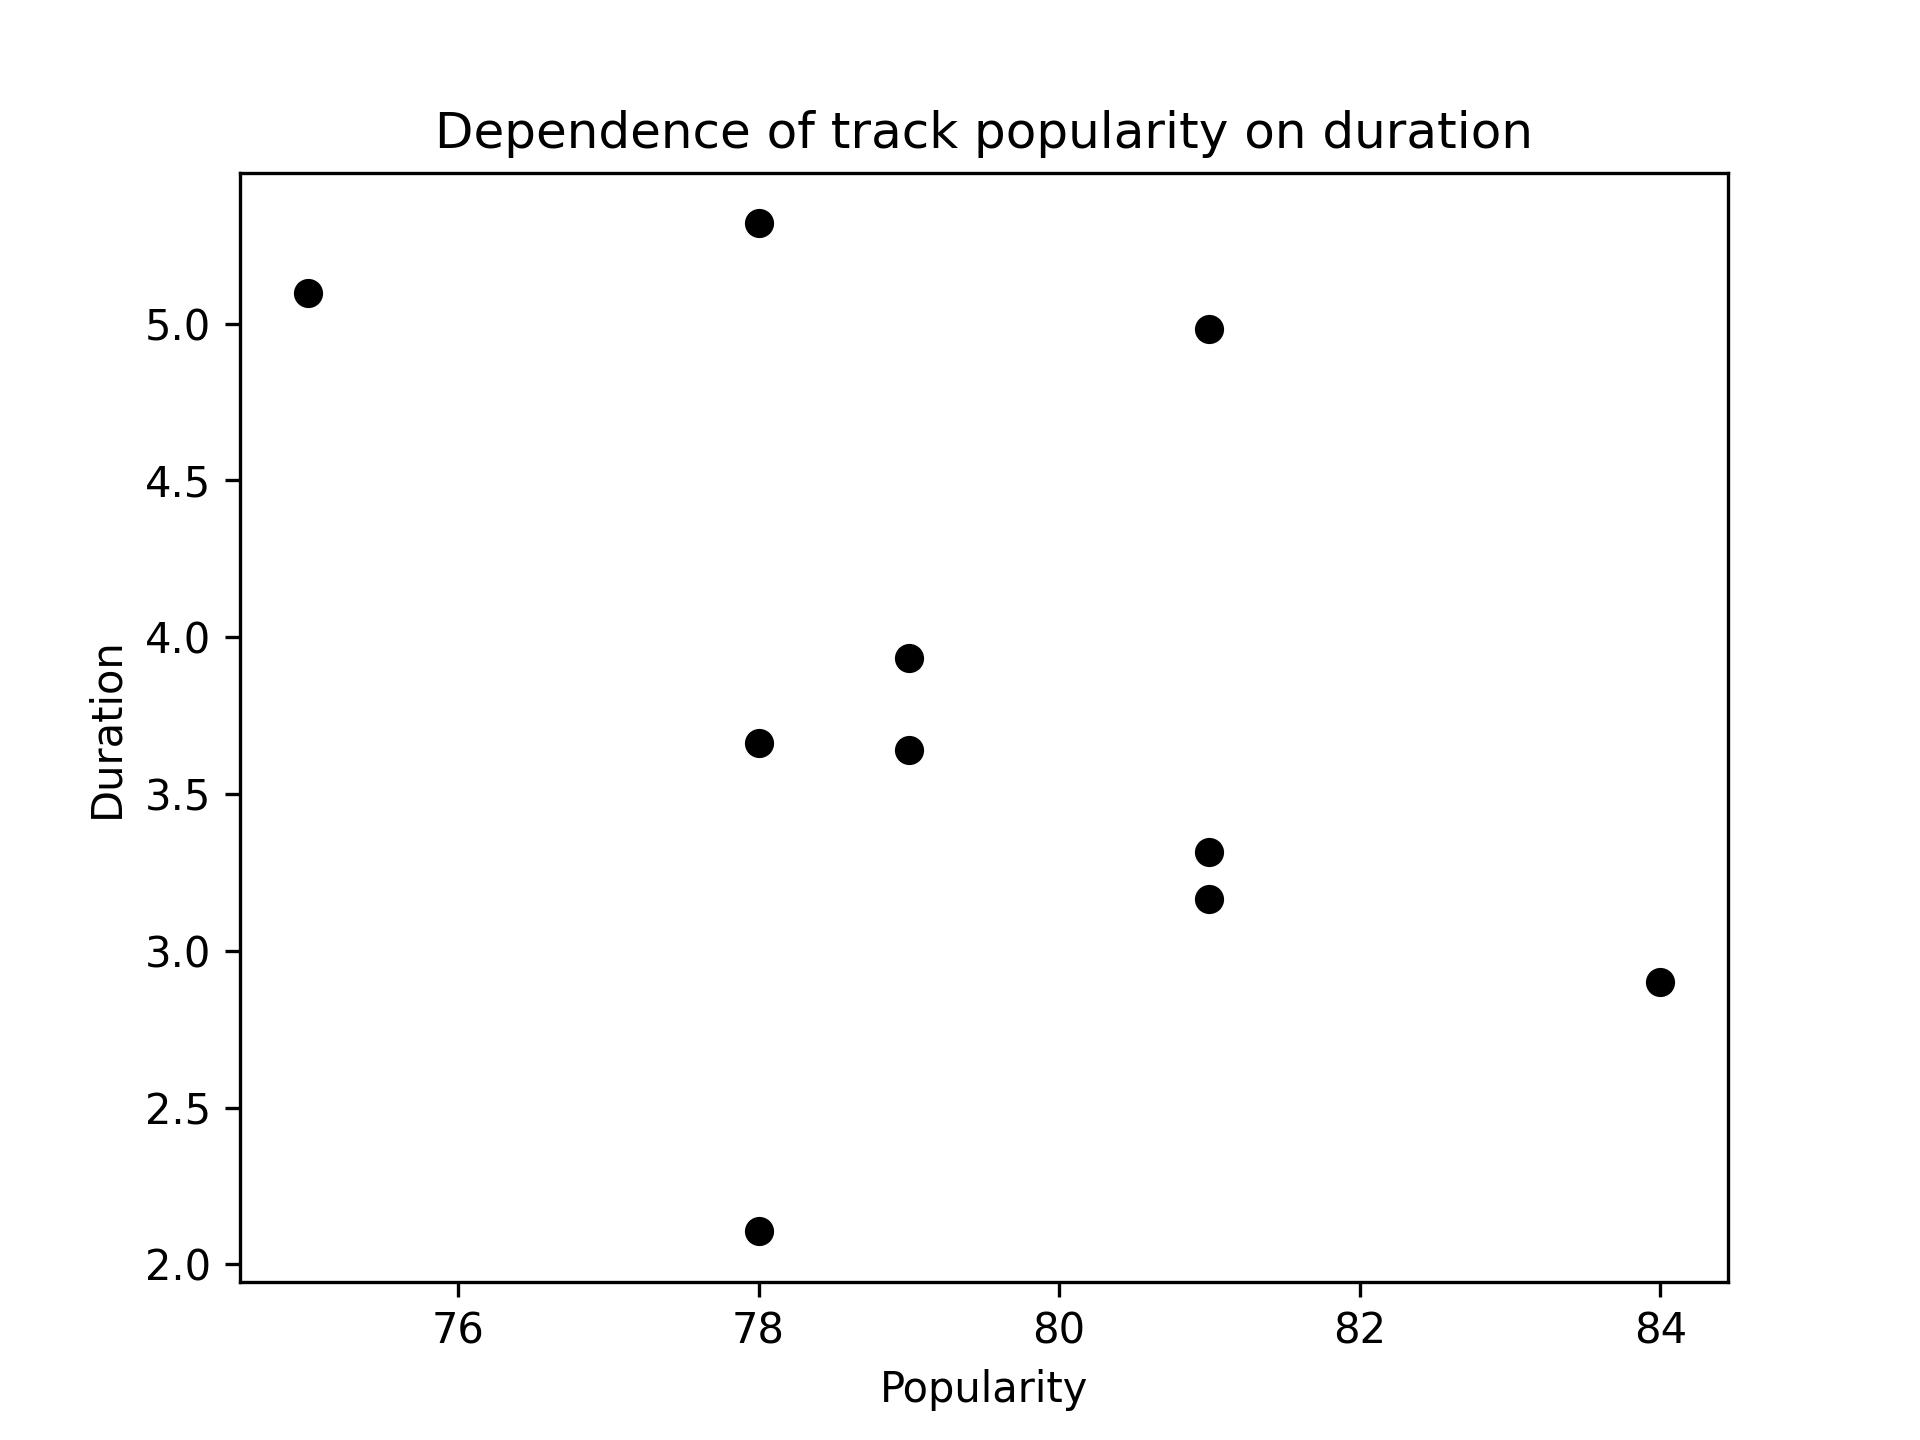
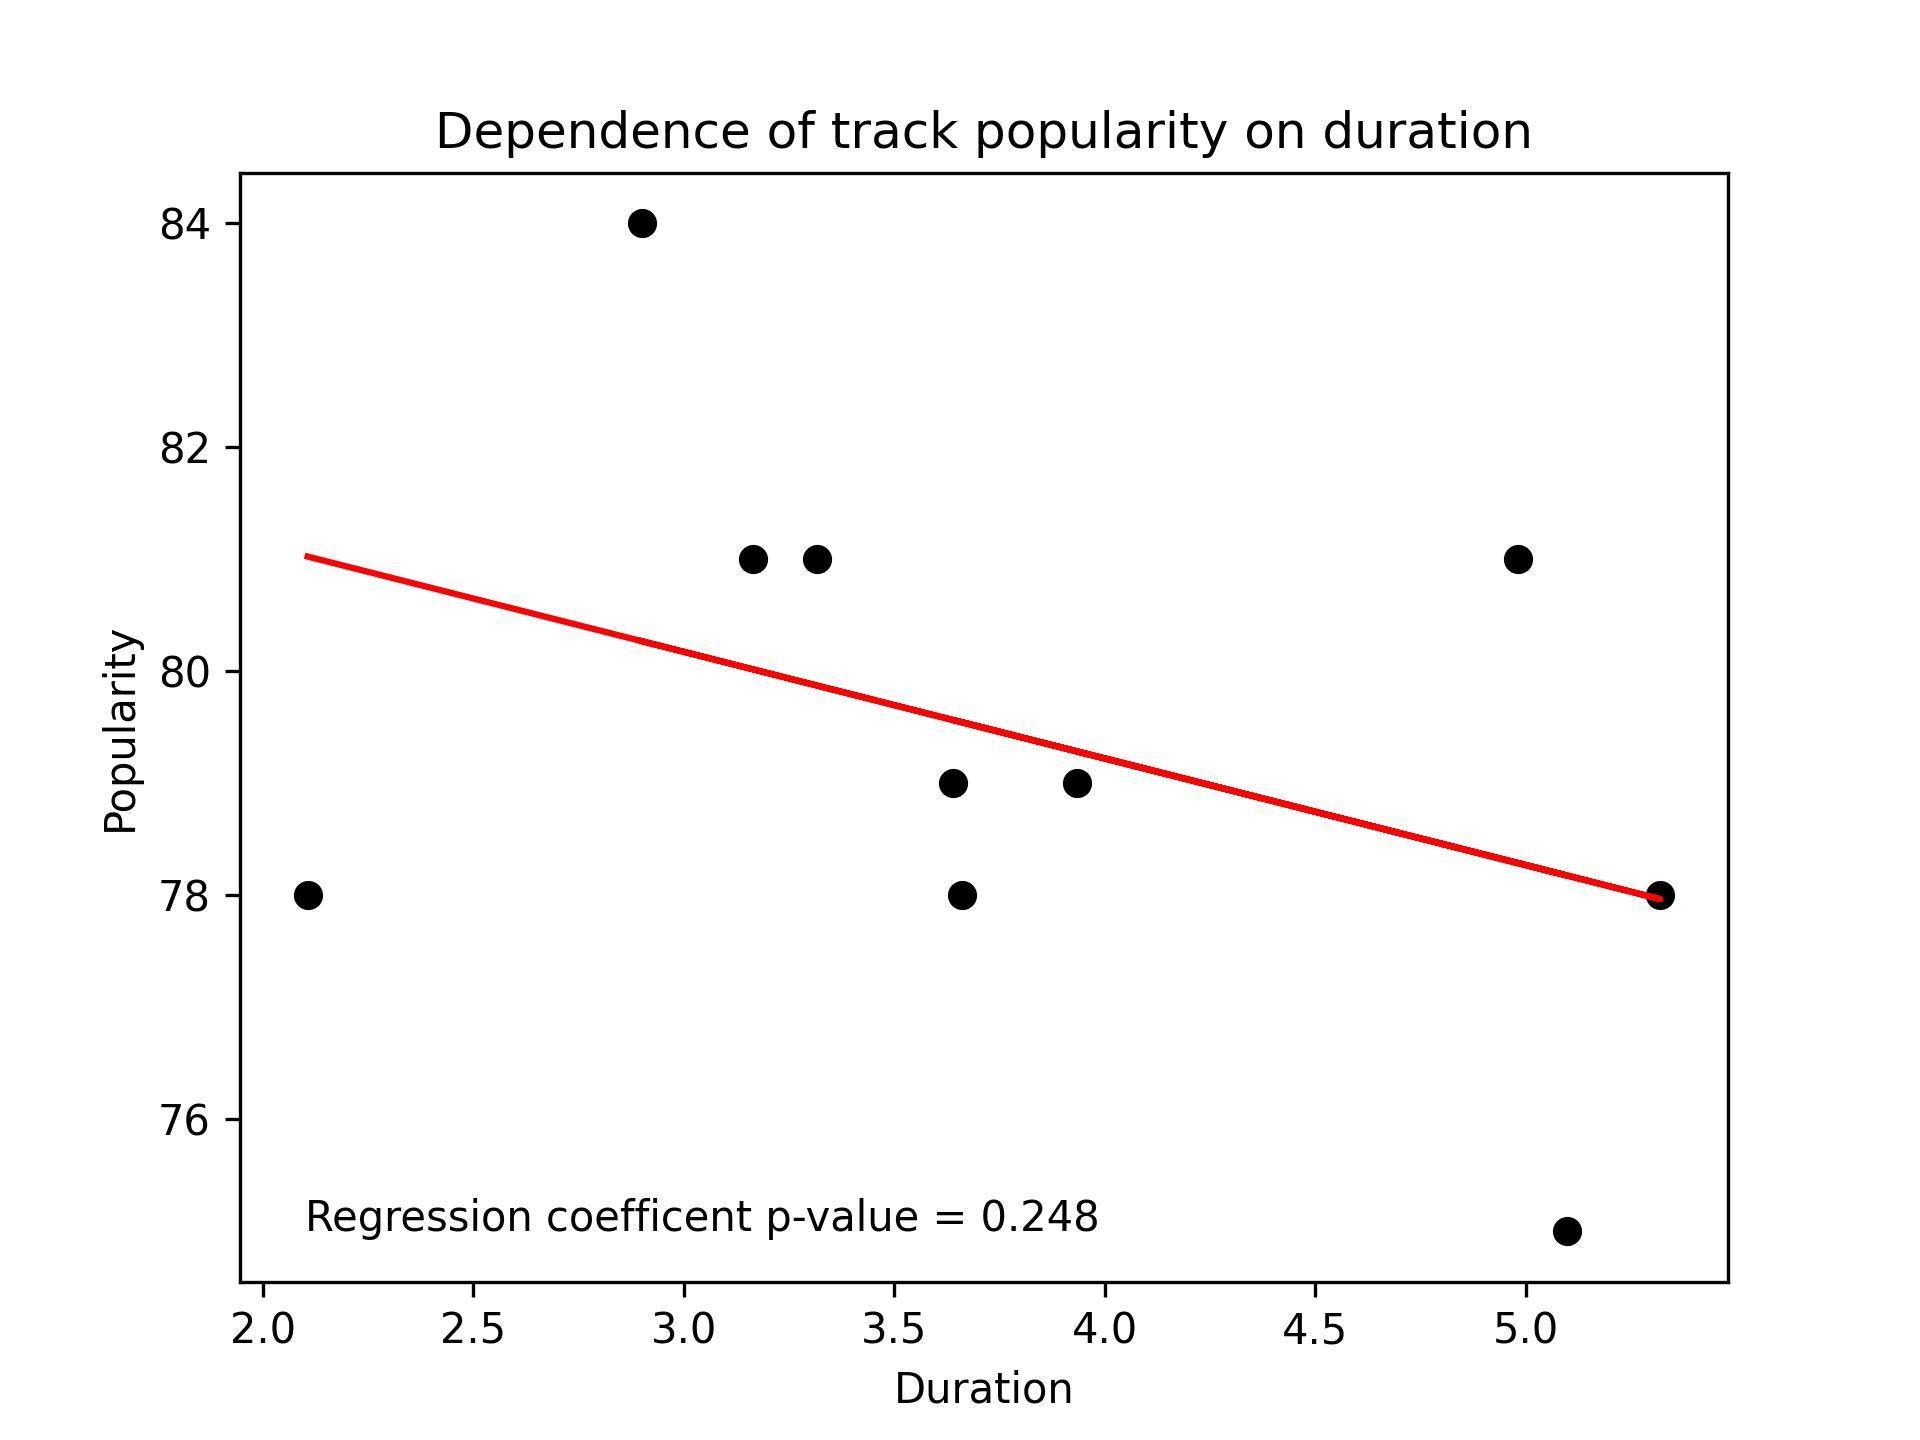
Added OLS regression line and p-value for coefficent.

diff --git a/src/app.py b/src/app.py
@@ -1,6 +1,8 @@
 import os
 import spotipy
+import numpy as np
 import matplotlib.pyplot as plt
+import statsmodels.api as sm
 from dotenv import load_dotenv
 from spotipy.oauth2 import SpotifyClientCredentials
 
@@ -24,6 +26,7 @@ if __name__ == '__main__':
         )
     )
 
+    # Get top tracks for artest
     response=connection.artist_top_tracks(artist_id)
 
     if response:
@@ -41,9 +44,21 @@ if __name__ == '__main__':
             durations.append(track['duration_ms']/(1000*60))
             popularities.append(track['popularity'])
 
+        # Run ordinary least squares regression on popularity
+        Y=np.array(popularities).reshape(-1, 1)
+        X=durations
+        X=sm.add_constant(X)
+
+        model=sm.OLS(Y,X)
+        results=model.fit()
+        print(results.summary())
+        p_value=results.summary2().tables[1]['P>|t|'].iloc[1]
+
         # Plot the duration vs popularity
         plt.title('Dependence of track popularity on duration')
-        plt.scatter(popularities, durations, color='black')
+        plt.scatter(durations, popularities, color='black')
+        plt.plot(durations, results.predict(X), color='red')
+        plt.text(2.1, 75, f'Regression coefficent p-value = {p_value:.3f}')
         plt.ylabel('Popularity')
         plt.xlabel('Duration')
         plt.savefig('./duration_plot.jpg', dpi=300)
